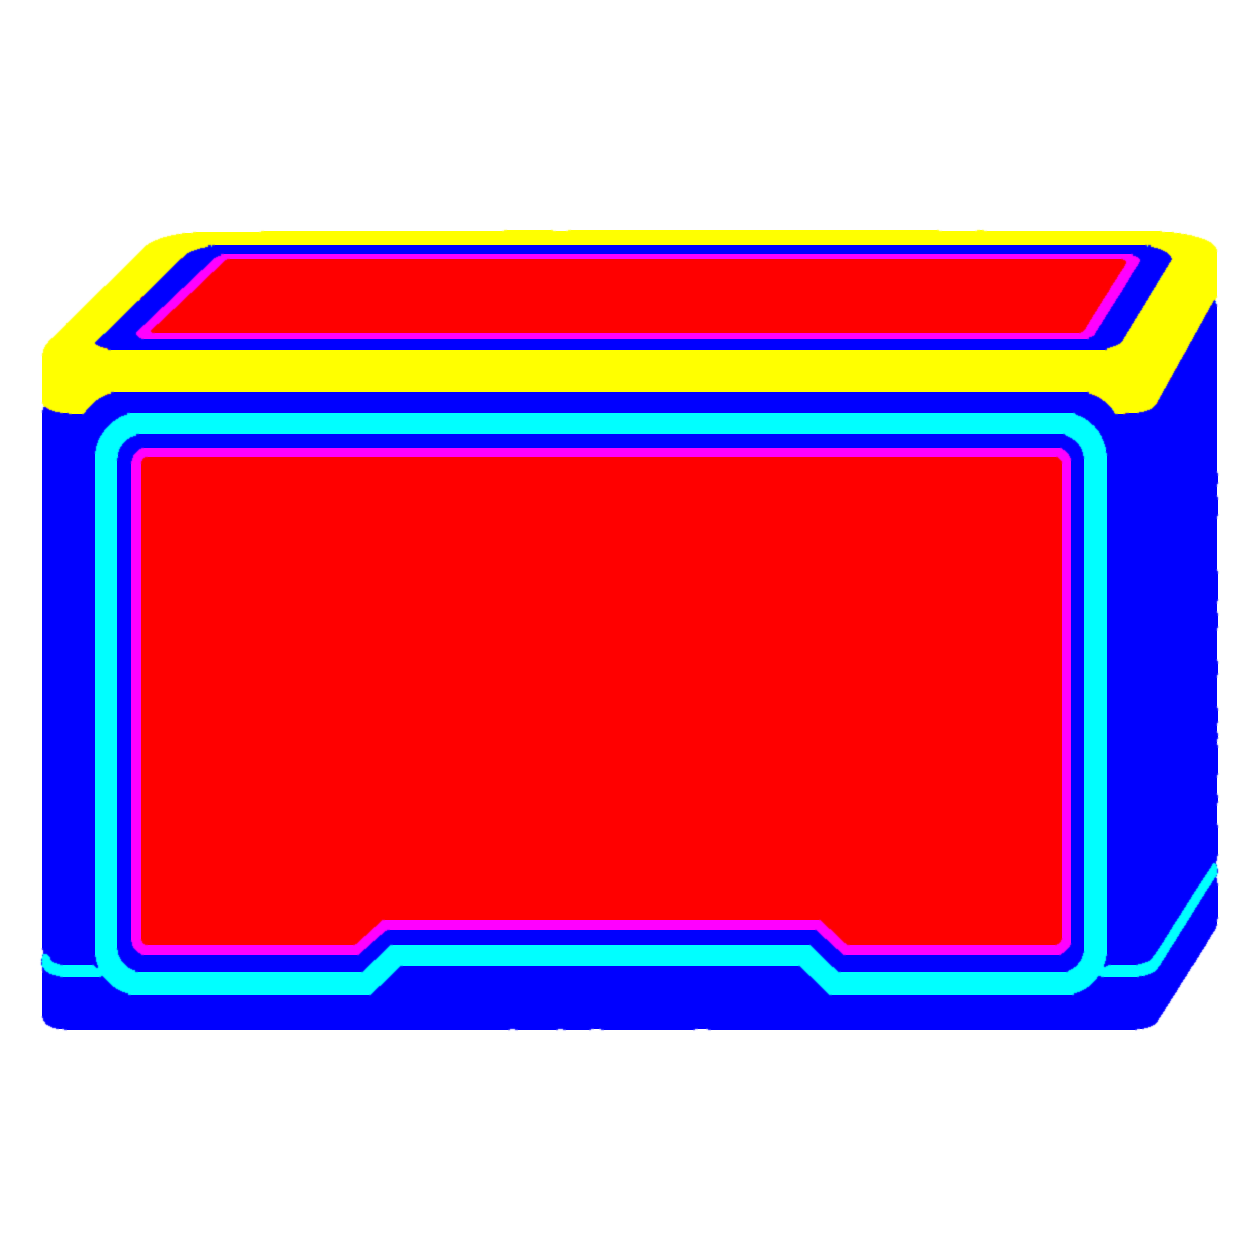
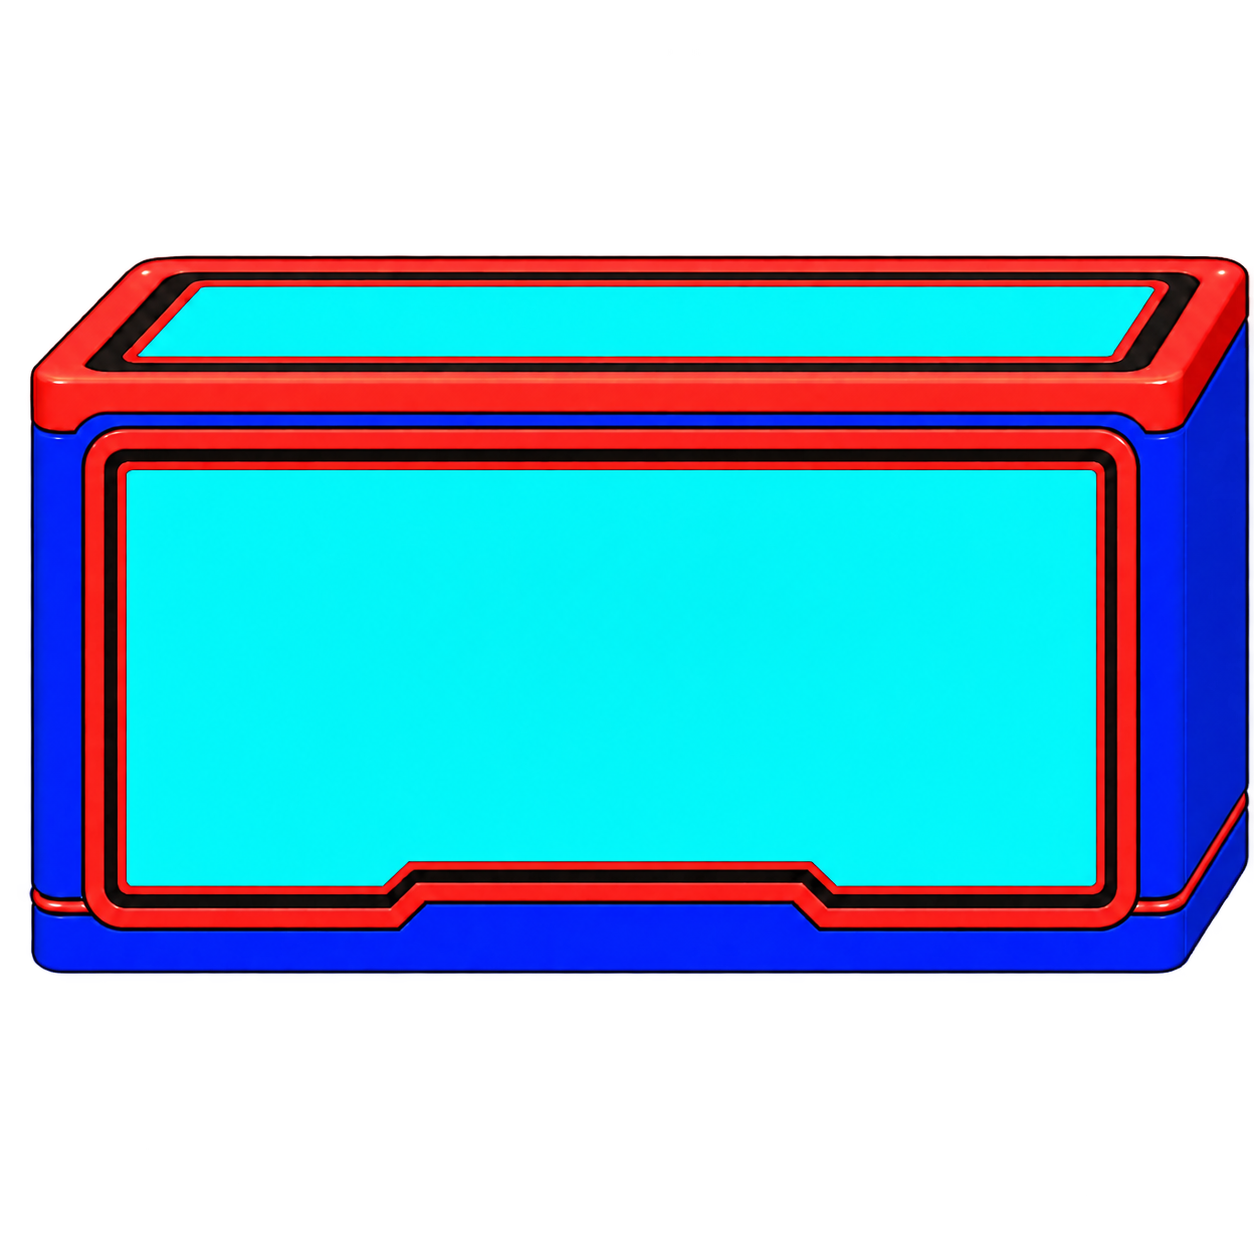
adding new segmentation masks for all sizes

diff --git a/test/colorize_podium_test.py b/test/colorize_podium_test.py
@@ -303,13 +303,32 @@ def brightened_color(color: RGB, peak: int, white_mix: float) -> RGB:
 def prepare_reference_lighting(
     reference: Image.Image,
     target_size: tuple[int, int],
+    target_mask: Image.Image | None = None,
 ) -> Image.Image:
-    """Align an original image with its generated segmentation-mask canvas."""
+    """Align the visible reference podium with the target mask geometry."""
 
-    aligned = reference.convert("RGBA")
-    if aligned.size != target_size:
-        aligned = aligned.resize(target_size, Image.Resampling.LANCZOS)
-    return aligned.filter(ImageFilter.GaussianBlur(10))
+    source = reference.convert("RGBA")
+    if target_mask is None or source.size == target_size:
+        aligned = source.resize(target_size, Image.Resampling.LANCZOS)
+    else:
+        source_alpha = source.getchannel("A").point(
+            lambda value: 255 if value > MASK_ALPHA_THRESHOLD else 0
+        )
+        target_alpha = target_mask.convert("RGBA").getchannel("A").point(
+            lambda value: 255 if value > MASK_ALPHA_THRESHOLD else 0
+        )
+        source_bounds = source_alpha.getbbox()
+        target_bounds = target_alpha.getbbox()
+        aligned = Image.new("RGBA", target_size)
+        if source_bounds is not None and target_bounds is not None:
+            target_width = target_bounds[2] - target_bounds[0]
+            target_height = target_bounds[3] - target_bounds[1]
+            cropped = source.crop(source_bounds).resize(
+                (target_width, target_height),
+                Image.Resampling.LANCZOS,
+            )
+            aligned.paste(cropped, target_bounds[:2], cropped)
+    return aligned.filter(ImageFilter.GaussianBlur(14))
 
 
 def premultiplied_blur(image: Image.Image, radius: float) -> Image.Image:
@@ -574,8 +593,8 @@ def colorize_podium(
     structure_pixels: list[int] = []
     visible_pixels: list[int] = []
 
-    for (red, green, blue, alpha), mask_class in zip(
-        source_pixels, classified_pixels
+    for pixel_index, ((red, green, blue, alpha), mask_class) in enumerate(
+        zip(source_pixels, classified_pixels)
     ):
         if mask_class is None:
             output_pixels.append((0, 0, 0, 0))
@@ -586,8 +605,16 @@ def colorize_podium(
             continue
 
         if mask_class == (255, 255, 255):
-            replacement = (255, 255, 255)
-            is_metal = False
+            if pixel_index % source.width >= round(source.width * 0.70):
+                replacement = color
+                is_metal = True
+            else:
+                replacement = (
+                    metal_highlight
+                    if metallic
+                    else brightened_color(color, 255, 0.72)
+                )
+                is_metal = False
             is_panel = False
             is_structure = False
         elif mask_class == (0, 0, 0):
@@ -656,7 +683,9 @@ def main() -> None:
             Image.open(ARTWORK_FOLDER / mask_filename) as mask,
             Image.open(ARTWORK_FOLDER / reference_filename) as reference,
         ):
-            reference_lighting = prepare_reference_lighting(reference, mask.size)
+            reference_lighting = prepare_reference_lighting(
+                reference, mask.size, mask
+            )
             output_path = OUTPUT_FOLDER / f"{size_name}_red.png"
             colorize_podium(
                 mask,
@@ -676,7 +705,7 @@ def main() -> None:
         Image.open(medium_mask_path) as mask,
         Image.open(medium_reference_path) as reference,
     ):
-        reference_lighting = prepare_reference_lighting(reference, mask.size)
+        reference_lighting = prepare_reference_lighting(reference, mask.size, mask)
         variants = {
             "03_medium_blue.png": (
                 SECOND_PLACE_BOX.exterior_line,
